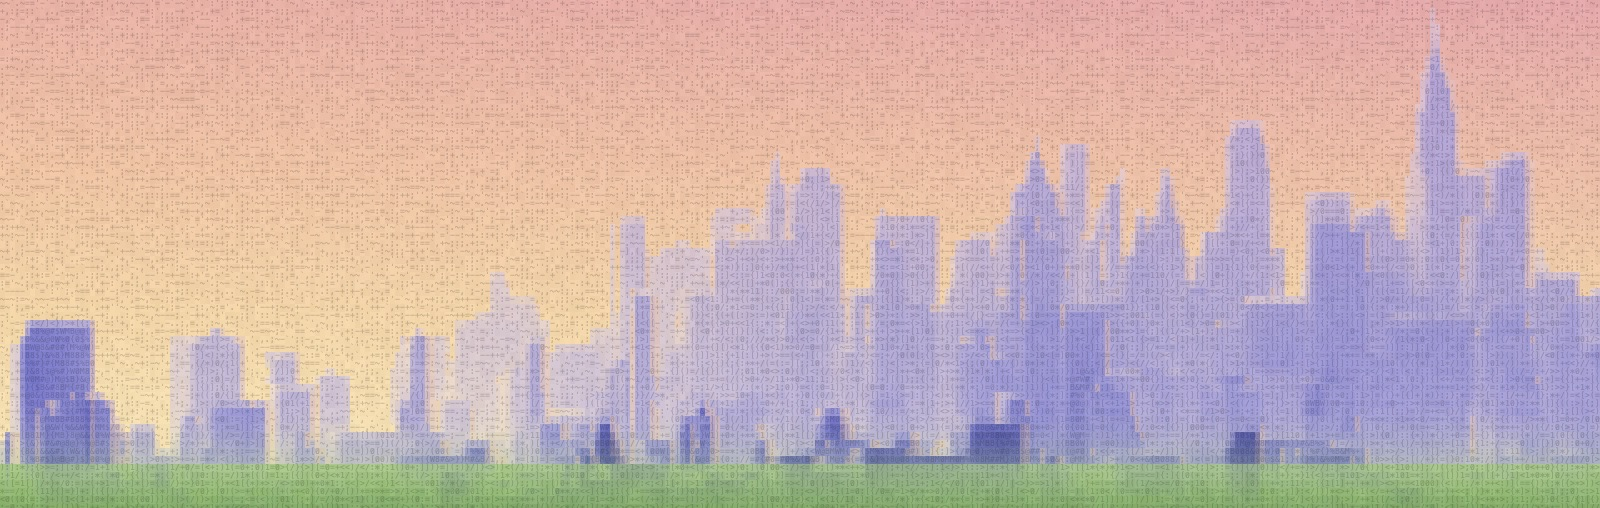
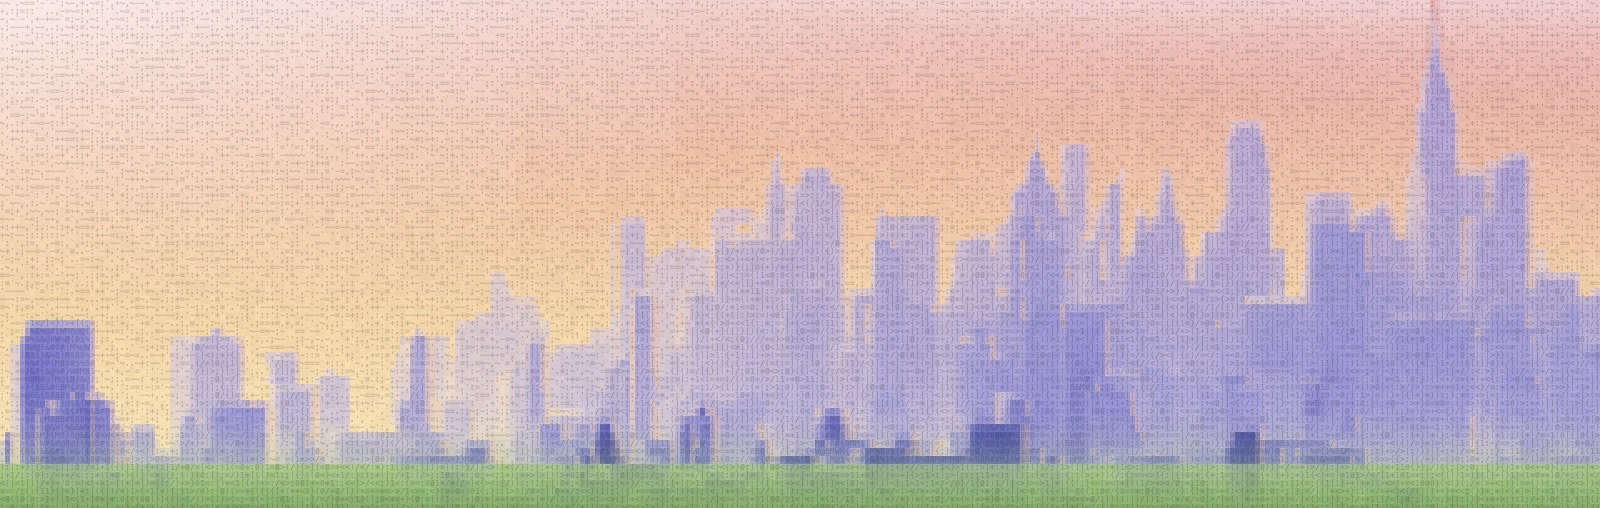
Landing hero: soft white fade over the open sky on the left

Changed region(s): [[0.0, 0.0, 1.0, 0.3839]]

diff --git a/landing/styles.css b/landing/styles.css
@@ -96,7 +96,7 @@ svg { overflow: visible; }
 
 /* Hero */
 .hero { display: flex; flex-direction: column; height: 100svh; min-height: 40rem; padding-top: 72px; background: var(--white); }
-.scene { position: relative; flex: 1; min-height: 14rem; overflow: hidden; background: #e9b3a6; }
+.scene { position: relative; flex: 1; min-height: 14rem; overflow: hidden; background: #f4dcd6; }
 .scene img { position: absolute; left: 0; right: 0; bottom: 0; width: 100%; height: auto; min-height: 100%; object-fit: cover; object-position: 50% 100%; }
 .hero-body { display: flex; align-items: flex-start; justify-content: space-between; gap: 2rem; padding: max(2rem, 3.2vh) max(1.5rem, 4.2vw) max(2rem, 3.6vh); }
 .hero-title { font-family: 'Instrument Serif', Georgia, serif; font-size: clamp(2.6rem, 4.7vw, 5rem); line-height: 1; letter-spacing: -0.01em; color: #111; }
